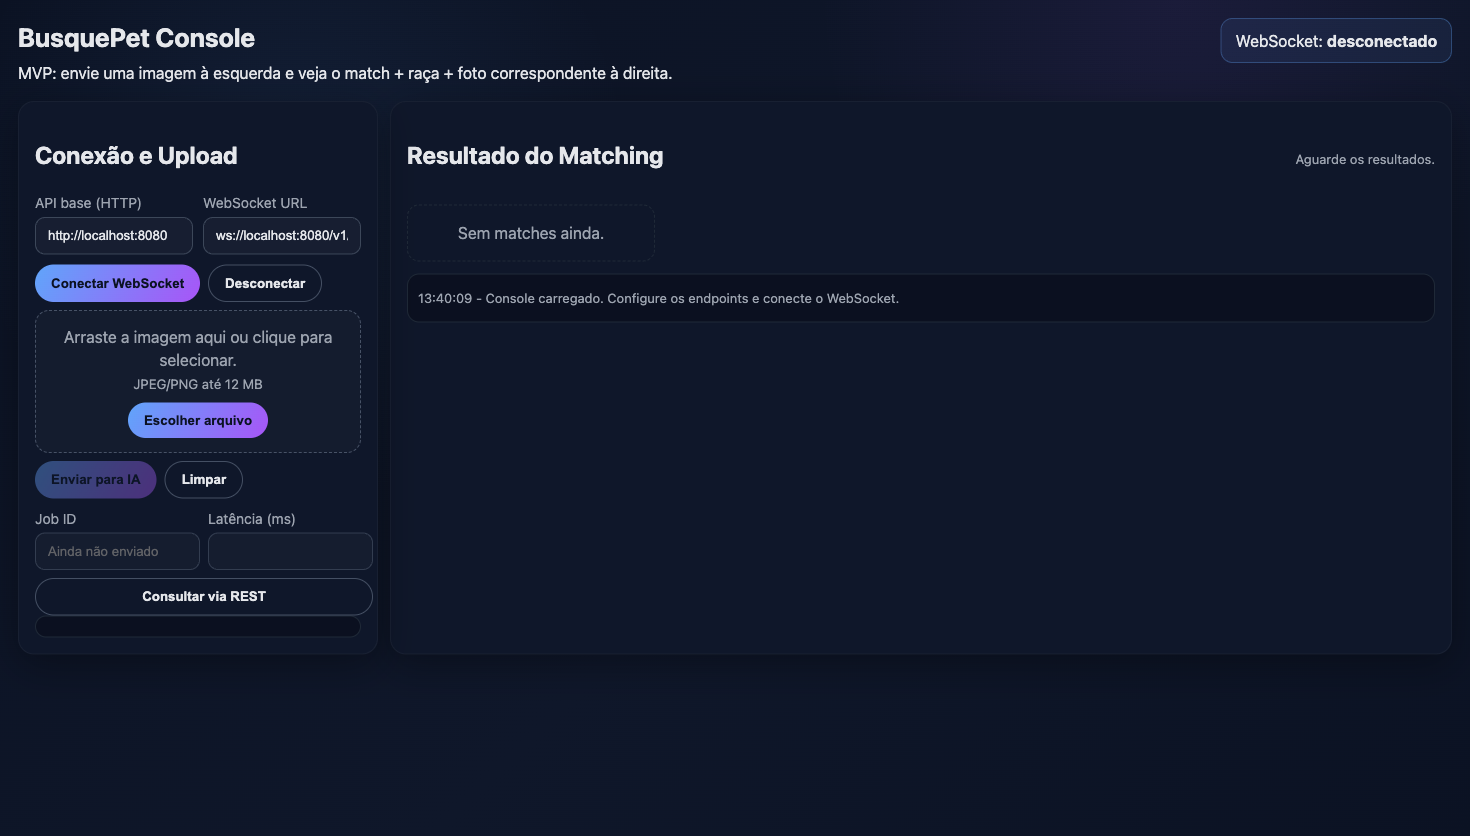
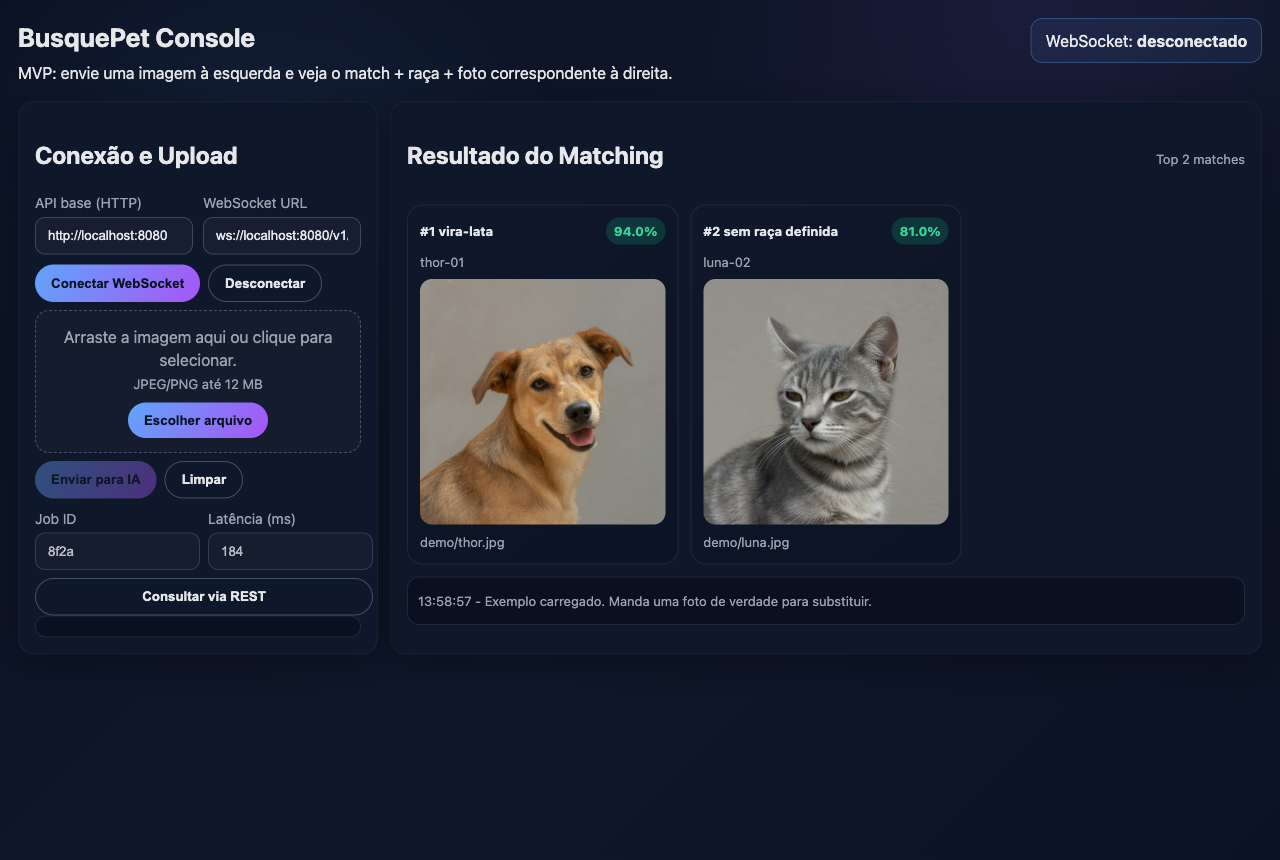
Abre o console com dois matches de exemplo.
Thor e Luna entram junto da tela, para o painel não nascer vazio.

diff --git a/frontend/app.js b/frontend/app.js
@@ -56,7 +56,11 @@ const renderResults = (result) => {
     const apiBase = apiBaseInput.value.trim().replace(/\/$/, "");
     const rawPath = match.image_path || "";
     const normalizedPath = rawPath.replace(/^\/+/, "");
-    const imgSrc = rawPath ? `${apiBase}/files/${normalizedPath}` : "";
+    const imgSrc = rawPath.startsWith("demo/")
+      ? rawPath
+      : rawPath
+        ? `${apiBase}/files/${normalizedPath}`
+        : "";
     card.innerHTML = `
       <div class="result-meta">
         <strong>#${index + 1} ${match.breed ?? "-"}</strong>
@@ -226,6 +230,13 @@ refreshBtn.addEventListener("click", handleRefreshJob);
 connectBtn.addEventListener("click", connectWebSocket);
 disconnectBtn.addEventListener("click", () => websocket?.close());
 
-// Inicializa UI vazia
-renderResults();
-log("Console carregado. Configure os endpoints e conecte o WebSocket.");
+const exemplo = {
+  matches: [
+    { breed: "vira-lata", score: 0.94, image_id: "thor-01", image_path: "demo/thor.jpg" },
+    { breed: "sem raça definida", score: 0.81, image_id: "luna-02", image_path: "demo/luna.jpg" },
+  ],
+};
+renderResults(exemplo);
+if (jobIdInput) jobIdInput.value = "8f2a";
+if (latencyInput) latencyInput.value = "184";
+log("Exemplo carregado. Manda uma foto de verdade para substituir.");

diff --git a/README.md b/README.md
@@ -4,7 +4,7 @@
 
 ## A tela
 
-O console aberto de verdade, servido da pasta `frontend`. O websocket aparece desconectado porque a API Go não estava no ar. A tela é essa.
+O console aberto de verdade, servido da pasta `frontend`. Ele já entra com dois matches de exemplo, Thor e Luna, para não abrir vazio. O websocket aparece desconectado porque a API Go não estava no ar.
 
 <p align="center">
   <img src="assets/tela.png" alt="Console do BusquePet aberto, com upload à esquerda e o painel de matching à direita." width="820">
